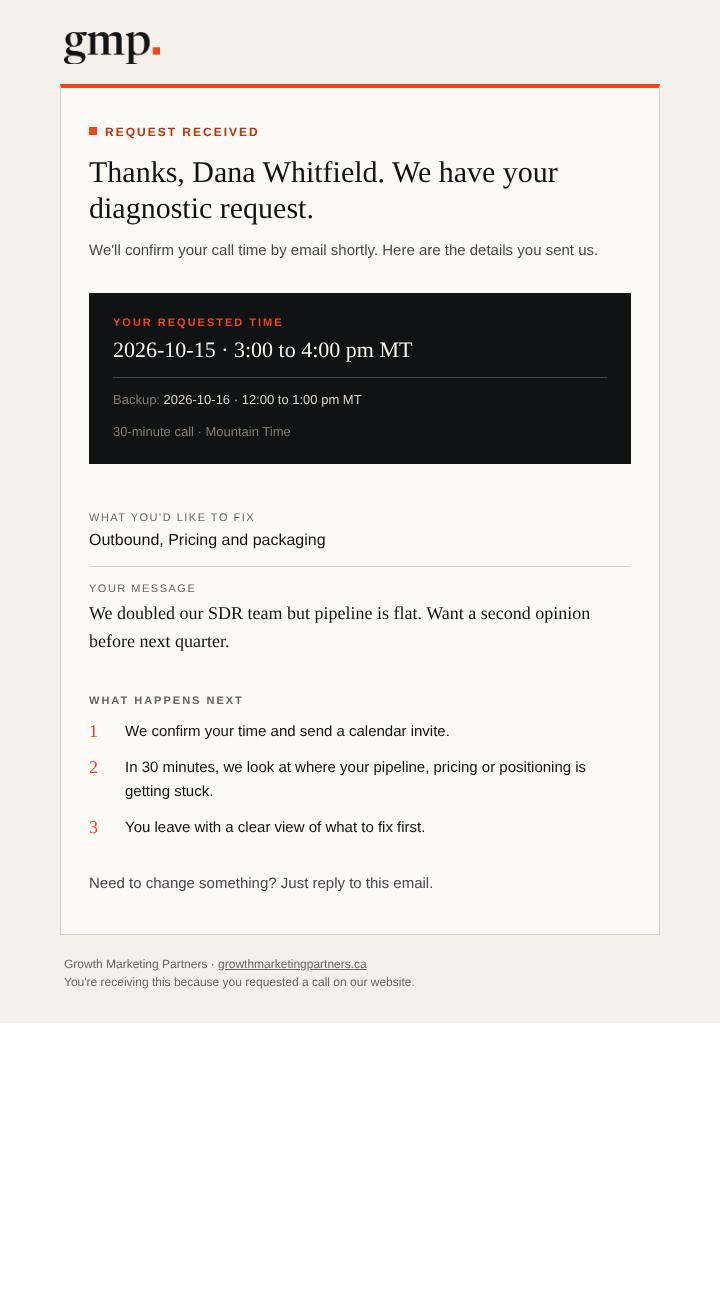
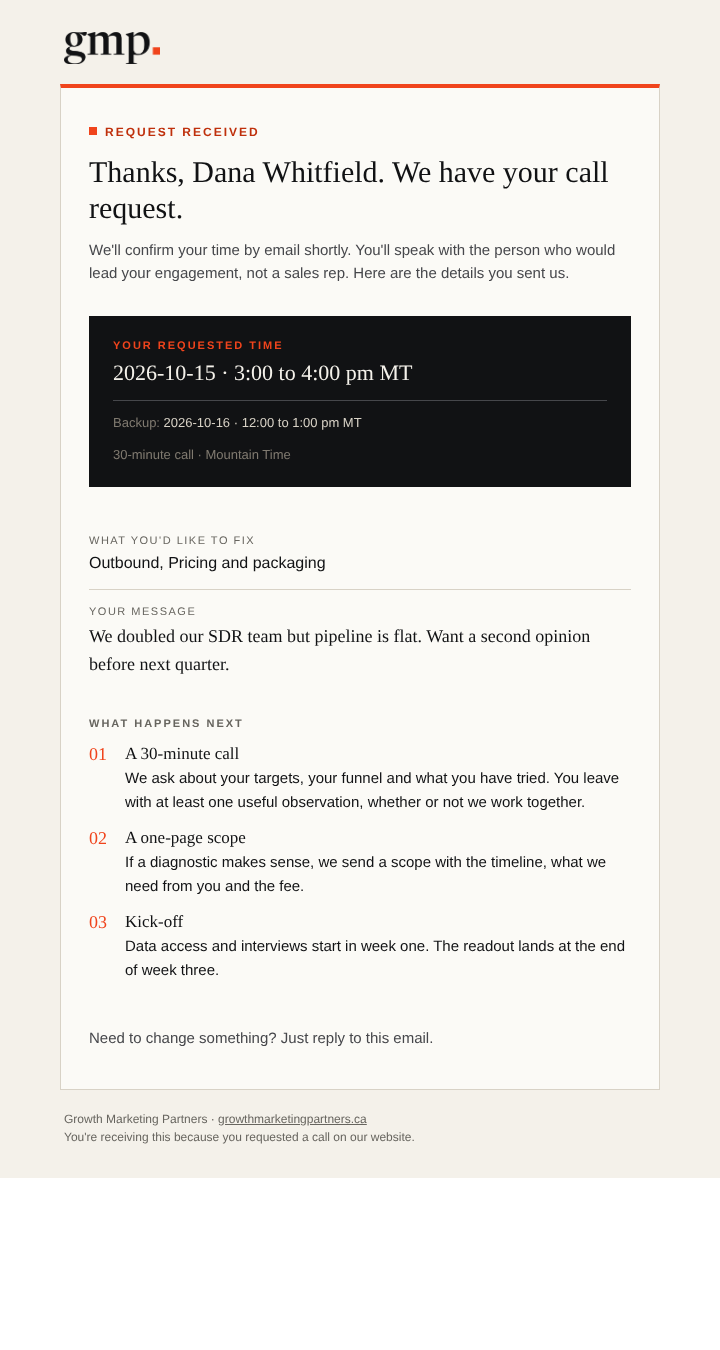
Align booking emails with the Book a diagnostic page
Claude-Session: https://claude.ai/code/session_017TxxuUS3kaqMHkYvoJm3xq

diff --git a/email-templates/book-a-diagnostic-confirmation.min.html b/email-templates/book-a-diagnostic-confirmation.min.html
@@ -1,1 +1,1 @@
-<div style="margin:0;padding:0;background-color:#F4F1EA;"><table role="presentation" width="100%" cellpadding="0" cellspacing="0" border="0" style="background-color:#F4F1EA;"><tr><td align="center" style="padding:32px 16px;"><table role="presentation" width="100%" cellpadding="0" cellspacing="0" border="0" style="width:100%;max-width:600px;"><tr><td style="padding:0 4px 20px 4px;"><a href="https://www.growthmarketingpartners.ca/" style="text-decoration:none;"><img src="https://www.growthmarketingpartners.ca/wp-content/uploads/2026/10/gmp-wordmark-ink.png" width="96" height="32" alt="gmp." style="display:block;border:0;width:96px;height:32px;"></a></td></tr><tr><td style="background-color:#FBFAF6;border:1px solid #D8D2C6;border-top:4px solid #F0441C;"><table role="presentation" width="100%" cellpadding="0" cellspacing="0" border="0"><tr><td style="padding:36px 28px 8px 28px;"><p style="margin:0 0 14px 0;font-family:Helvetica,Arial,sans-serif;font-size:12px;line-height:16px;letter-spacing:2px;text-transform:uppercase;color:#BF300C;font-weight:bold;"><span style="display:inline-block;width:8px;height:8px;background-color:#F0441C;margin-right:8px;vertical-align:1px;"></span>Request received</p><h1 style="margin:0 0 12px 0;font-family:Newsreader,Georgia,'Times New Roman',serif;font-size:30px;line-height:36px;font-weight:normal;color:#111214;">Thanks, [field id="5cec3a85"]. We have your diagnostic request.</h1><p style="margin:0;font-family:Helvetica,Arial,sans-serif;font-size:15px;line-height:23px;color:#46474B;">We'll confirm your call time by email shortly. Here are the details you sent us.</p></td></tr><tr><td style="padding:24px 28px 8px 28px;"><table role="presentation" width="100%" cellpadding="0" cellspacing="0" border="0" style="background-color:#111214;"><tr><td style="padding:22px 24px;"><p style="margin:0 0 6px 0;font-family:Helvetica,Arial,sans-serif;font-size:11px;line-height:14px;letter-spacing:2px;text-transform:uppercase;color:#F0441C;font-weight:bold;">Your requested time</p><p style="margin:0;font-family:Newsreader,Georgia,'Times New Roman',serif;font-size:22px;line-height:30px;color:#F4F1EA;">[field id="2269bd84"] &middot; [field id="5397fd0e"]</p><p style="margin:12px 0 0 0;padding-top:12px;border-top:1px solid #46474B;font-family:Helvetica,Arial,sans-serif;font-size:13px;line-height:20px;color:#D8D2C6;"><span style="color:#807A70;">Backup:</span> [field id="41d242c"] &middot; [field id="30e5dc5c"]</p><p style="margin:12px 0 0 0;font-family:Helvetica,Arial,sans-serif;font-size:13px;line-height:20px;color:#807A70;">30-minute call &middot; Mountain Time</p></td></tr></table></td></tr><tr><td style="padding:24px 28px 8px 28px;"><table role="presentation" width="100%" cellpadding="0" cellspacing="0" border="0"><tr><td style="padding:14px 0;border-bottom:1px solid #D8D2C6;"><p style="margin:0 0 4px 0;font-family:Helvetica,Arial,sans-serif;font-size:11px;line-height:14px;letter-spacing:1.5px;text-transform:uppercase;color:#67655F;">What you'd like to fix</p><p style="margin:0;font-family:Helvetica,Arial,sans-serif;font-size:16px;line-height:24px;color:#111214;">[field id="101eaee1"]</p></td></tr><tr><td style="padding:14px 0;"><p style="margin:0 0 4px 0;font-family:Helvetica,Arial,sans-serif;font-size:11px;line-height:14px;letter-spacing:1.5px;text-transform:uppercase;color:#67655F;">Your message</p><p style="margin:0;font-family:Newsreader,Georgia,'Times New Roman',serif;font-size:18px;line-height:28px;color:#111214;">[field id="630e0247"]</p></td></tr></table></td></tr><tr><td style="padding:16px 28px 8px 28px;"><p style="margin:0 0 12px 0;font-family:Helvetica,Arial,sans-serif;font-size:11px;line-height:14px;letter-spacing:2px;text-transform:uppercase;color:#67655F;font-weight:bold;">What happens next</p><table role="presentation" width="100%" cellpadding="0" cellspacing="0" border="0"><tr><td width="36" valign="top" style="padding:0 0 12px 0;font-family:Newsreader,Georgia,serif;font-size:18px;line-height:24px;color:#F0441C;">1</td><td valign="top" style="padding:0 0 12px 0;font-family:Helvetica,Arial,sans-serif;font-size:15px;line-height:24px;color:#111214;">We confirm your time and send a calendar invite.</td></tr><tr><td width="36" valign="top" style="padding:0 0 12px 0;font-family:Newsreader,Georgia,serif;font-size:18px;line-height:24px;color:#F0441C;">2</td><td valign="top" style="padding:0 0 12px 0;font-family:Helvetica,Arial,sans-serif;font-size:15px;line-height:24px;color:#111214;">In 30 minutes, we look at where your pipeline, pricing or positioning is getting stuck.</td></tr><tr><td width="36" valign="top" style="padding:0;font-family:Newsreader,Georgia,serif;font-size:18px;line-height:24px;color:#F0441C;">3</td><td valign="top" style="padding:0;font-family:Helvetica,Arial,sans-serif;font-size:15px;line-height:24px;color:#111214;">You leave with a clear view of what to fix first.</td></tr></table></td></tr><tr><td style="padding:24px 28px 40px 28px;"><p style="margin:0;font-family:Helvetica,Arial,sans-serif;font-size:15px;line-height:23px;color:#46474B;">Need to change something? Just reply to this email.</p></td></tr></table></td></tr><tr><td style="padding:20px 4px 0 4px;"><p style="margin:0;font-family:Helvetica,Arial,sans-serif;font-size:12px;line-height:18px;color:#67655F;">Growth Marketing Partners &middot; <a href="https://www.growthmarketingpartners.ca/" style="color:#67655F;">growthmarketingpartners.ca</a><br>You're receiving this because you requested a call on our website.</p></td></tr></table></td></tr></table></div>
+<div style="margin:0;padding:0;background-color:#F4F1EA;"><table role="presentation" width="100%" cellpadding="0" cellspacing="0" border="0" style="background-color:#F4F1EA;"><tr><td align="center" style="padding:32px 16px;"><table role="presentation" width="100%" cellpadding="0" cellspacing="0" border="0" style="width:100%;max-width:600px;"><tr><td style="padding:0 4px 20px 4px;"><a href="https://www.growthmarketingpartners.ca/" style="text-decoration:none;"><img src="https://www.growthmarketingpartners.ca/wp-content/uploads/2026/10/gmp-wordmark-ink.png" width="96" height="32" alt="gmp." style="display:block;border:0;width:96px;height:32px;"></a></td></tr><tr><td style="background-color:#FBFAF6;border:1px solid #D8D2C6;border-top:4px solid #F0441C;"><table role="presentation" width="100%" cellpadding="0" cellspacing="0" border="0"><tr><td style="padding:36px 28px 8px 28px;"><p style="margin:0 0 14px 0;font-family:Helvetica,Arial,sans-serif;font-size:12px;line-height:16px;letter-spacing:2px;text-transform:uppercase;color:#BF300C;font-weight:bold;"><span style="display:inline-block;width:8px;height:8px;background-color:#F0441C;margin-right:8px;vertical-align:1px;"></span>Request received</p><h1 style="margin:0 0 12px 0;font-family:Newsreader,Georgia,'Times New Roman',serif;font-size:30px;line-height:36px;font-weight:normal;color:#111214;">Thanks, [field id="5cec3a85"]. We have your call request.</h1><p style="margin:0;font-family:Helvetica,Arial,sans-serif;font-size:15px;line-height:23px;color:#46474B;">We'll confirm your time by email shortly. You'll speak with the person who would lead your engagement, not a sales rep. Here are the details you sent us.</p></td></tr><tr><td style="padding:24px 28px 8px 28px;"><table role="presentation" width="100%" cellpadding="0" cellspacing="0" border="0" style="background-color:#111214;"><tr><td style="padding:22px 24px;"><p style="margin:0 0 6px 0;font-family:Helvetica,Arial,sans-serif;font-size:11px;line-height:14px;letter-spacing:2px;text-transform:uppercase;color:#F0441C;font-weight:bold;">Your requested time</p><p style="margin:0;font-family:Newsreader,Georgia,'Times New Roman',serif;font-size:22px;line-height:30px;color:#F4F1EA;">[field id="2269bd84"] &middot; [field id="5397fd0e"]</p><p style="margin:12px 0 0 0;padding-top:12px;border-top:1px solid #46474B;font-family:Helvetica,Arial,sans-serif;font-size:13px;line-height:20px;color:#D8D2C6;"><span style="color:#807A70;">Backup:</span> [field id="41d242c"] &middot; [field id="30e5dc5c"]</p><p style="margin:12px 0 0 0;font-family:Helvetica,Arial,sans-serif;font-size:13px;line-height:20px;color:#807A70;">30-minute call &middot; Mountain Time</p></td></tr></table></td></tr><tr><td style="padding:24px 28px 8px 28px;"><table role="presentation" width="100%" cellpadding="0" cellspacing="0" border="0"><tr><td style="padding:14px 0;border-bottom:1px solid #D8D2C6;"><p style="margin:0 0 4px 0;font-family:Helvetica,Arial,sans-serif;font-size:11px;line-height:14px;letter-spacing:1.5px;text-transform:uppercase;color:#67655F;">What you'd like to fix</p><p style="margin:0;font-family:Helvetica,Arial,sans-serif;font-size:16px;line-height:24px;color:#111214;">[field id="101eaee1"]</p></td></tr><tr><td style="padding:14px 0;"><p style="margin:0 0 4px 0;font-family:Helvetica,Arial,sans-serif;font-size:11px;line-height:14px;letter-spacing:1.5px;text-transform:uppercase;color:#67655F;">Your message</p><p style="margin:0;font-family:Newsreader,Georgia,'Times New Roman',serif;font-size:18px;line-height:28px;color:#111214;">[field id="630e0247"]</p></td></tr></table></td></tr><tr><td style="padding:16px 28px 8px 28px;"><p style="margin:0 0 12px 0;font-family:Helvetica,Arial,sans-serif;font-size:11px;line-height:14px;letter-spacing:2px;text-transform:uppercase;color:#67655F;font-weight:bold;">What happens next</p><table role="presentation" width="100%" cellpadding="0" cellspacing="0" border="0"><tr><td width="36" valign="top" style="padding:0 0 12px 0;font-family:Newsreader,Georgia,serif;font-size:18px;line-height:24px;color:#F0441C;">01</td><td valign="top" style="padding:0 0 12px 0;font-family:Helvetica,Arial,sans-serif;font-size:15px;line-height:24px;color:#111214;"><strong style="font-family:Newsreader,Georgia,serif;font-size:17px;font-weight:normal;">A 30-minute call</strong><br>We ask about your targets, your funnel and what you have tried. You leave with at least one useful observation, whether or not we work together.</td></tr><tr><td width="36" valign="top" style="padding:0 0 12px 0;font-family:Newsreader,Georgia,serif;font-size:18px;line-height:24px;color:#F0441C;">02</td><td valign="top" style="padding:0 0 12px 0;font-family:Helvetica,Arial,sans-serif;font-size:15px;line-height:24px;color:#111214;"><strong style="font-family:Newsreader,Georgia,serif;font-size:17px;font-weight:normal;">A one-page scope</strong><br>If a diagnostic makes sense, we send a scope with the timeline, what we need from you and the fee.</td></tr><tr><td width="36" valign="top" style="padding:0 0 12px 0;font-family:Newsreader,Georgia,serif;font-size:18px;line-height:24px;color:#F0441C;">03</td><td valign="top" style="padding:0 0 12px 0;font-family:Helvetica,Arial,sans-serif;font-size:15px;line-height:24px;color:#111214;"><strong style="font-family:Newsreader,Georgia,serif;font-size:17px;font-weight:normal;">Kick-off</strong><br>Data access and interviews start in week one. The readout lands at the end of week three.</td></tr></table></td></tr><tr><td style="padding:24px 28px 40px 28px;"><p style="margin:0;font-family:Helvetica,Arial,sans-serif;font-size:15px;line-height:23px;color:#46474B;">Need to change something? Just reply to this email.</p></td></tr></table></td></tr><tr><td style="padding:20px 4px 0 4px;"><p style="margin:0;font-family:Helvetica,Arial,sans-serif;font-size:12px;line-height:18px;color:#67655F;">Growth Marketing Partners &middot; <a href="https://www.growthmarketingpartners.ca/" style="color:#67655F;">growthmarketingpartners.ca</a><br>You're receiving this because you requested a call on our website.</p></td></tr></table></td></tr></table></div>

diff --git a/email-templates/book-a-diagnostic-notification.min.html b/email-templates/book-a-diagnostic-notification.min.html
@@ -1,1 +1,1 @@
-<div style="margin:0;padding:0;background-color:#F4F1EA;"><table role="presentation" width="100%" cellpadding="0" cellspacing="0" border="0" style="background-color:#F4F1EA;"><tr><td align="center" style="padding:32px 16px;"><table role="presentation" width="100%" cellpadding="0" cellspacing="0" border="0" style="width:100%;max-width:600px;"><tr><td style="padding:0 4px 20px 4px;"><a href="https://www.growthmarketingpartners.ca/" style="text-decoration:none;"><img src="https://www.growthmarketingpartners.ca/wp-content/uploads/2026/10/gmp-wordmark-ink.png" width="96" height="32" alt="gmp." style="display:block;border:0;width:96px;height:32px;"></a></td></tr><tr><td style="background-color:#FBFAF6;border:1px solid #D8D2C6;border-top:4px solid #F0441C;"><table role="presentation" width="100%" cellpadding="0" cellspacing="0" border="0"><tr><td style="padding:36px 28px 8px 28px;"><p style="margin:0 0 14px 0;font-family:Helvetica,Arial,sans-serif;font-size:12px;line-height:16px;letter-spacing:2px;text-transform:uppercase;color:#BF300C;font-weight:bold;"><span style="display:inline-block;width:8px;height:8px;background-color:#F0441C;margin-right:8px;vertical-align:1px;"></span>New diagnostic request</p><h1 style="margin:0 0 12px 0;font-family:Newsreader,Georgia,'Times New Roman',serif;font-size:30px;line-height:36px;font-weight:normal;color:#111214;">[field id="5cec3a85"] would like to book a diagnostic call.</h1><p style="margin:0;font-family:Helvetica,Arial,sans-serif;font-size:15px;line-height:23px;color:#46474B;">Confirm a time by replying to this email. It goes straight to their inbox.</p></td></tr><tr><td style="padding:24px 28px 8px 28px;"><table role="presentation" width="100%" cellpadding="0" cellspacing="0" border="0" style="background-color:#111214;"><tr><td style="padding:22px 24px;"><p style="margin:0 0 6px 0;font-family:Helvetica,Arial,sans-serif;font-size:11px;line-height:14px;letter-spacing:2px;text-transform:uppercase;color:#F0441C;font-weight:bold;">Requested time</p><p style="margin:0;font-family:Newsreader,Georgia,'Times New Roman',serif;font-size:22px;line-height:30px;color:#F4F1EA;">[field id="2269bd84"] &middot; [field id="5397fd0e"]</p><p style="margin:12px 0 0 0;padding-top:12px;border-top:1px solid #46474B;font-family:Helvetica,Arial,sans-serif;font-size:13px;line-height:20px;color:#D8D2C6;"><span style="color:#807A70;">Backup:</span> [field id="41d242c"] &middot; [field id="30e5dc5c"]</p></td></tr></table></td></tr><tr><td style="padding:24px 28px 8px 28px;"><table role="presentation" width="100%" cellpadding="0" cellspacing="0" border="0"><tr><td style="padding:14px 0;border-bottom:1px solid #D8D2C6;"><p style="margin:0 0 4px 0;font-family:Helvetica,Arial,sans-serif;font-size:11px;line-height:14px;letter-spacing:1.5px;text-transform:uppercase;color:#67655F;">Name</p><p style="margin:0;font-family:Helvetica,Arial,sans-serif;font-size:16px;line-height:24px;color:#111214;">[field id="5cec3a85"]</p></td></tr><tr><td style="padding:14px 0;border-bottom:1px solid #D8D2C6;"><p style="margin:0 0 4px 0;font-family:Helvetica,Arial,sans-serif;font-size:11px;line-height:14px;letter-spacing:1.5px;text-transform:uppercase;color:#67655F;">Work email</p><p style="margin:0;font-family:Helvetica,Arial,sans-serif;font-size:16px;line-height:24px;color:#111214;"><a href="mailto:[field id="7b072996"]" style="color:#BF300C;text-decoration:underline;">[field id="7b072996"]</a></p></td></tr><tr><td style="padding:14px 0;border-bottom:1px solid #D8D2C6;"><p style="margin:0 0 4px 0;font-family:Helvetica,Arial,sans-serif;font-size:11px;line-height:14px;letter-spacing:1.5px;text-transform:uppercase;color:#67655F;">What they want to fix</p><p style="margin:0;font-family:Helvetica,Arial,sans-serif;font-size:16px;line-height:24px;color:#111214;">[field id="101eaee1"]</p></td></tr><tr><td style="padding:14px 0;"><p style="margin:0 0 4px 0;font-family:Helvetica,Arial,sans-serif;font-size:11px;line-height:14px;letter-spacing:1.5px;text-transform:uppercase;color:#67655F;">Their message</p><p style="margin:0;font-family:Newsreader,Georgia,'Times New Roman',serif;font-size:18px;line-height:28px;color:#111214;">[field id="630e0247"]</p></td></tr></table></td></tr><tr><td style="padding:16px 28px 40px 28px;"><table role="presentation" cellpadding="0" cellspacing="0" border="0"><tr><td style="background-color:#111214;"><a href="mailto:[field id="7b072996"]?subject=Your%20growth%20diagnostic%20call" style="display:inline-block;padding:14px 26px;font-family:Helvetica,Arial,sans-serif;font-size:15px;line-height:20px;color:#F4F1EA;text-decoration:none;font-weight:bold;">Reply to confirm &rarr;</a></td></tr></table></td></tr></table></td></tr><tr><td style="padding:20px 4px 0 4px;"><p style="margin:0;font-family:Helvetica,Arial,sans-serif;font-size:12px;line-height:18px;color:#67655F;">Sent from the Book a diagnostic form on <a href="https://www.growthmarketingpartners.ca/contact/" style="color:#67655F;">growthmarketingpartners.ca</a>. Calls run Monday to Friday, Mountain Time.</p></td></tr></table></td></tr></table></div>
+<div style="margin:0;padding:0;background-color:#F4F1EA;"><table role="presentation" width="100%" cellpadding="0" cellspacing="0" border="0" style="background-color:#F4F1EA;"><tr><td align="center" style="padding:32px 16px;"><table role="presentation" width="100%" cellpadding="0" cellspacing="0" border="0" style="width:100%;max-width:600px;"><tr><td style="padding:0 4px 20px 4px;"><a href="https://www.growthmarketingpartners.ca/" style="text-decoration:none;"><img src="https://www.growthmarketingpartners.ca/wp-content/uploads/2026/10/gmp-wordmark-ink.png" width="96" height="32" alt="gmp." style="display:block;border:0;width:96px;height:32px;"></a></td></tr><tr><td style="background-color:#FBFAF6;border:1px solid #D8D2C6;border-top:4px solid #F0441C;"><table role="presentation" width="100%" cellpadding="0" cellspacing="0" border="0"><tr><td style="padding:36px 28px 8px 28px;"><p style="margin:0 0 14px 0;font-family:Helvetica,Arial,sans-serif;font-size:12px;line-height:16px;letter-spacing:2px;text-transform:uppercase;color:#BF300C;font-weight:bold;"><span style="display:inline-block;width:8px;height:8px;background-color:#F0441C;margin-right:8px;vertical-align:1px;"></span>New call request</p><h1 style="margin:0 0 12px 0;font-family:Newsreader,Georgia,'Times New Roman',serif;font-size:30px;line-height:36px;font-weight:normal;color:#111214;">[field id="5cec3a85"] would like a 30-minute call.</h1><p style="margin:0;font-family:Helvetica,Arial,sans-serif;font-size:15px;line-height:23px;color:#46474B;">Confirm their time by replying to this email. It goes straight to their inbox. If a diagnostic makes sense after the call, send the one-page scope.</p></td></tr><tr><td style="padding:24px 28px 8px 28px;"><table role="presentation" width="100%" cellpadding="0" cellspacing="0" border="0" style="background-color:#111214;"><tr><td style="padding:22px 24px;"><p style="margin:0 0 6px 0;font-family:Helvetica,Arial,sans-serif;font-size:11px;line-height:14px;letter-spacing:2px;text-transform:uppercase;color:#F0441C;font-weight:bold;">Requested time</p><p style="margin:0;font-family:Newsreader,Georgia,'Times New Roman',serif;font-size:22px;line-height:30px;color:#F4F1EA;">[field id="2269bd84"] &middot; [field id="5397fd0e"]</p><p style="margin:12px 0 0 0;padding-top:12px;border-top:1px solid #46474B;font-family:Helvetica,Arial,sans-serif;font-size:13px;line-height:20px;color:#D8D2C6;"><span style="color:#807A70;">Backup:</span> [field id="41d242c"] &middot; [field id="30e5dc5c"]</p></td></tr></table></td></tr><tr><td style="padding:24px 28px 8px 28px;"><table role="presentation" width="100%" cellpadding="0" cellspacing="0" border="0"><tr><td style="padding:14px 0;border-bottom:1px solid #D8D2C6;"><p style="margin:0 0 4px 0;font-family:Helvetica,Arial,sans-serif;font-size:11px;line-height:14px;letter-spacing:1.5px;text-transform:uppercase;color:#67655F;">Name</p><p style="margin:0;font-family:Helvetica,Arial,sans-serif;font-size:16px;line-height:24px;color:#111214;">[field id="5cec3a85"]</p></td></tr><tr><td style="padding:14px 0;border-bottom:1px solid #D8D2C6;"><p style="margin:0 0 4px 0;font-family:Helvetica,Arial,sans-serif;font-size:11px;line-height:14px;letter-spacing:1.5px;text-transform:uppercase;color:#67655F;">Work email</p><p style="margin:0;font-family:Helvetica,Arial,sans-serif;font-size:16px;line-height:24px;color:#111214;"><a href="mailto:[field id="7b072996"]" style="color:#BF300C;text-decoration:underline;">[field id="7b072996"]</a></p></td></tr><tr><td style="padding:14px 0;border-bottom:1px solid #D8D2C6;"><p style="margin:0 0 4px 0;font-family:Helvetica,Arial,sans-serif;font-size:11px;line-height:14px;letter-spacing:1.5px;text-transform:uppercase;color:#67655F;">What they want to fix</p><p style="margin:0;font-family:Helvetica,Arial,sans-serif;font-size:16px;line-height:24px;color:#111214;">[field id="101eaee1"]</p></td></tr><tr><td style="padding:14px 0;"><p style="margin:0 0 4px 0;font-family:Helvetica,Arial,sans-serif;font-size:11px;line-height:14px;letter-spacing:1.5px;text-transform:uppercase;color:#67655F;">Their message</p><p style="margin:0;font-family:Newsreader,Georgia,'Times New Roman',serif;font-size:18px;line-height:28px;color:#111214;">[field id="630e0247"]</p></td></tr></table></td></tr><tr><td style="padding:16px 28px 40px 28px;"><table role="presentation" cellpadding="0" cellspacing="0" border="0"><tr><td style="background-color:#111214;"><a href="mailto:[field id="7b072996"]?subject=Your%2030-minute%20call%20with%20Growth%20Marketing%20Partners" style="display:inline-block;padding:14px 26px;font-family:Helvetica,Arial,sans-serif;font-size:15px;line-height:20px;color:#F4F1EA;text-decoration:none;font-weight:bold;">Reply to confirm the call &rarr;</a></td></tr></table></td></tr></table></td></tr><tr><td style="padding:20px 4px 0 4px;"><p style="margin:0;font-family:Helvetica,Arial,sans-serif;font-size:12px;line-height:18px;color:#67655F;">Sent from the Book a diagnostic form on <a href="https://www.growthmarketingpartners.ca/contact/" style="color:#67655F;">growthmarketingpartners.ca</a>. Calls run Monday to Friday, Mountain Time.</p></td></tr></table></td></tr></table></div>

diff --git a/email-templates/book-a-diagnostic-confirmation.html b/email-templates/book-a-diagnostic-confirmation.html
@@ -12,8 +12,8 @@
 
 <tr><td style="padding:36px 28px 8px 28px;">
 <p style="margin:0 0 14px 0;font-family:Helvetica,Arial,sans-serif;font-size:12px;line-height:16px;letter-spacing:2px;text-transform:uppercase;color:#BF300C;font-weight:bold;"><span style="display:inline-block;width:8px;height:8px;background-color:#F0441C;margin-right:8px;vertical-align:1px;"></span>Request received</p>
-<h1 style="margin:0 0 12px 0;font-family:Newsreader,Georgia,'Times New Roman',serif;font-size:30px;line-height:36px;font-weight:normal;color:#111214;">Thanks, [field id="5cec3a85"]. We have your diagnostic request.</h1>
-<p style="margin:0;font-family:Helvetica,Arial,sans-serif;font-size:15px;line-height:23px;color:#46474B;">We'll confirm your call time by email shortly. Here are the details you sent us.</p>
+<h1 style="margin:0 0 12px 0;font-family:Newsreader,Georgia,'Times New Roman',serif;font-size:30px;line-height:36px;font-weight:normal;color:#111214;">Thanks, [field id="5cec3a85"]. We have your call request.</h1>
+<p style="margin:0;font-family:Helvetica,Arial,sans-serif;font-size:15px;line-height:23px;color:#46474B;">We'll confirm your time by email shortly. You'll speak with the person who would lead your engagement, not a sales rep. Here are the details you sent us.</p>
 </td></tr>
 
 <tr><td style="padding:24px 28px 8px 28px;">
@@ -43,9 +43,9 @@
 <tr><td style="padding:16px 28px 8px 28px;">
 <p style="margin:0 0 12px 0;font-family:Helvetica,Arial,sans-serif;font-size:11px;line-height:14px;letter-spacing:2px;text-transform:uppercase;color:#67655F;font-weight:bold;">What happens next</p>
 <table role="presentation" width="100%" cellpadding="0" cellspacing="0" border="0">
-<tr><td width="36" valign="top" style="padding:0 0 12px 0;font-family:Newsreader,Georgia,serif;font-size:18px;line-height:24px;color:#F0441C;">1</td><td valign="top" style="padding:0 0 12px 0;font-family:Helvetica,Arial,sans-serif;font-size:15px;line-height:24px;color:#111214;">We confirm your time and send a calendar invite.</td></tr>
-<tr><td width="36" valign="top" style="padding:0 0 12px 0;font-family:Newsreader,Georgia,serif;font-size:18px;line-height:24px;color:#F0441C;">2</td><td valign="top" style="padding:0 0 12px 0;font-family:Helvetica,Arial,sans-serif;font-size:15px;line-height:24px;color:#111214;">In 30 minutes, we look at where your pipeline, pricing or positioning is getting stuck.</td></tr>
-<tr><td width="36" valign="top" style="padding:0;font-family:Newsreader,Georgia,serif;font-size:18px;line-height:24px;color:#F0441C;">3</td><td valign="top" style="padding:0;font-family:Helvetica,Arial,sans-serif;font-size:15px;line-height:24px;color:#111214;">You leave with a clear view of what to fix first.</td></tr>
+<tr><td width="36" valign="top" style="padding:0 0 12px 0;font-family:Newsreader,Georgia,serif;font-size:18px;line-height:24px;color:#F0441C;">01</td><td valign="top" style="padding:0 0 12px 0;font-family:Helvetica,Arial,sans-serif;font-size:15px;line-height:24px;color:#111214;"><strong style="font-family:Newsreader,Georgia,serif;font-size:17px;font-weight:normal;">A 30-minute call</strong><br>We ask about your targets, your funnel and what you have tried. You leave with at least one useful observation, whether or not we work together.</td></tr>
+<tr><td width="36" valign="top" style="padding:0 0 12px 0;font-family:Newsreader,Georgia,serif;font-size:18px;line-height:24px;color:#F0441C;">02</td><td valign="top" style="padding:0 0 12px 0;font-family:Helvetica,Arial,sans-serif;font-size:15px;line-height:24px;color:#111214;"><strong style="font-family:Newsreader,Georgia,serif;font-size:17px;font-weight:normal;">A one-page scope</strong><br>If a diagnostic makes sense, we send a scope with the timeline, what we need from you and the fee.</td></tr>
+<tr><td width="36" valign="top" style="padding:0 0 12px 0;font-family:Newsreader,Georgia,serif;font-size:18px;line-height:24px;color:#F0441C;">03</td><td valign="top" style="padding:0 0 12px 0;font-family:Helvetica,Arial,sans-serif;font-size:15px;line-height:24px;color:#111214;"><strong style="font-family:Newsreader,Georgia,serif;font-size:17px;font-weight:normal;">Kick-off</strong><br>Data access and interviews start in week one. The readout lands at the end of week three.</td></tr>
 </table>
 </td></tr>
 

diff --git a/email-templates/book-a-diagnostic-notification.html b/email-templates/book-a-diagnostic-notification.html
@@ -11,9 +11,9 @@
 <table role="presentation" width="100%" cellpadding="0" cellspacing="0" border="0">
 
 <tr><td style="padding:36px 28px 8px 28px;">
-<p style="margin:0 0 14px 0;font-family:Helvetica,Arial,sans-serif;font-size:12px;line-height:16px;letter-spacing:2px;text-transform:uppercase;color:#BF300C;font-weight:bold;"><span style="display:inline-block;width:8px;height:8px;background-color:#F0441C;margin-right:8px;vertical-align:1px;"></span>New diagnostic request</p>
-<h1 style="margin:0 0 12px 0;font-family:Newsreader,Georgia,'Times New Roman',serif;font-size:30px;line-height:36px;font-weight:normal;color:#111214;">[field id="5cec3a85"] would like to book a diagnostic call.</h1>
-<p style="margin:0;font-family:Helvetica,Arial,sans-serif;font-size:15px;line-height:23px;color:#46474B;">Confirm a time by replying to this email. It goes straight to their inbox.</p>
+<p style="margin:0 0 14px 0;font-family:Helvetica,Arial,sans-serif;font-size:12px;line-height:16px;letter-spacing:2px;text-transform:uppercase;color:#BF300C;font-weight:bold;"><span style="display:inline-block;width:8px;height:8px;background-color:#F0441C;margin-right:8px;vertical-align:1px;"></span>New call request</p>
+<h1 style="margin:0 0 12px 0;font-family:Newsreader,Georgia,'Times New Roman',serif;font-size:30px;line-height:36px;font-weight:normal;color:#111214;">[field id="5cec3a85"] would like a 30-minute call.</h1>
+<p style="margin:0;font-family:Helvetica,Arial,sans-serif;font-size:15px;line-height:23px;color:#46474B;">Confirm their time by replying to this email. It goes straight to their inbox. If a diagnostic makes sense after the call, send the one-page scope.</p>
 </td></tr>
 
 <tr><td style="padding:24px 28px 8px 28px;">
@@ -49,7 +49,7 @@
 
 <tr><td style="padding:16px 28px 40px 28px;">
 <table role="presentation" cellpadding="0" cellspacing="0" border="0"><tr>
-<td style="background-color:#111214;"><a href="mailto:[field id="7b072996"]?subject=Your%20growth%20diagnostic%20call" style="display:inline-block;padding:14px 26px;font-family:Helvetica,Arial,sans-serif;font-size:15px;line-height:20px;color:#F4F1EA;text-decoration:none;font-weight:bold;">Reply to confirm &rarr;</a></td>
+<td style="background-color:#111214;"><a href="mailto:[field id="7b072996"]?subject=Your%2030-minute%20call%20with%20Growth%20Marketing%20Partners" style="display:inline-block;padding:14px 26px;font-family:Helvetica,Arial,sans-serif;font-size:15px;line-height:20px;color:#F4F1EA;text-decoration:none;font-weight:bold;">Reply to confirm the call &rarr;</a></td>
 </tr></table>
 </td></tr>
 

diff --git a/email-templates/README.md b/email-templates/README.md
@@ -14,7 +14,7 @@ Form email settings:
 | Setting   | Value |
 |-----------|-------|
 | To        | j.christopher.kenny@outlook.com |
-| Subject   | `New diagnostic request: [field id="5cec3a85"]` |
+| Subject   | `New call request: [field id="5cec3a85"]` |
 | From name | Growth Marketing Partners |
 | Reply-To  | `[field id="7b072996"]` (the visitor's email) |
 | Send as   | HTML |
@@ -34,10 +34,12 @@ Field shortcodes (`[field id="…"]` uses the element id of each input):
 
 ## Book a diagnostic: visitor confirmation
 
+Wording mirrors the Contact page (30-minute call → one-page scope → kick-off) so the page and emails match.
+
 Sent to the visitor (form action `email_2`) with the details of their request.
 
 - `book-a-diagnostic-confirmation.html` / `.min.html`
-- To: `[field id="7b072996"]` · Subject: "We have your diagnostic request"
+- To: `[field id="7b072996"]` · Subject: "We have your call request"
 - From name: Growth Marketing Partners · Reply-To: j.christopher.kenny@outlook.com
 
 Form actions after submit: `collect-submissions`, `email`, `email_2`.
